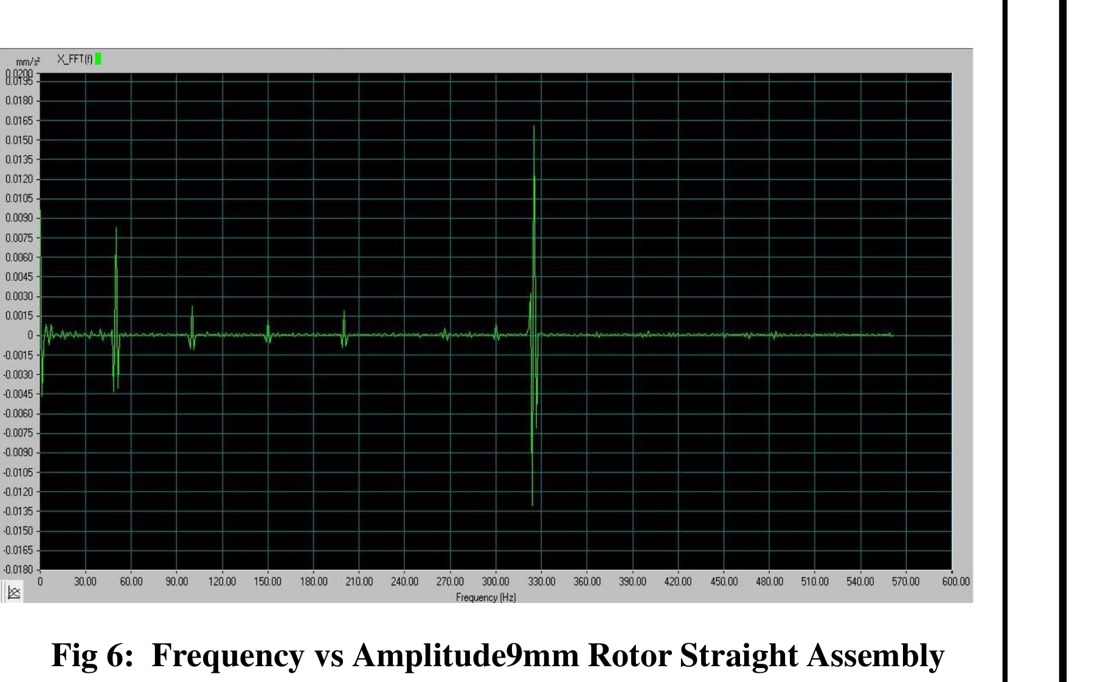
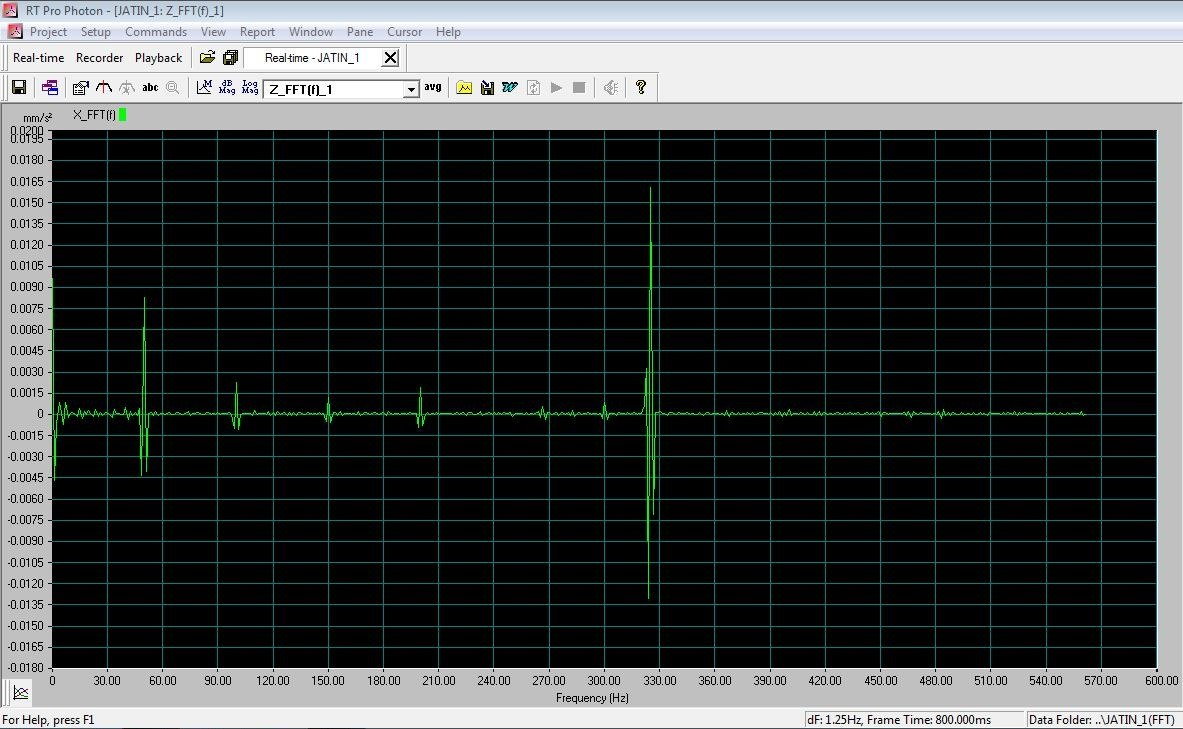
v5.27 gyro figures swapped to high-res labelled originals from Images.pptx/PPT media; setup figure full-width; CAD figure removed

diff --git a/gyro-motor.html b/gyro-motor.html
@@ -361,7 +361,7 @@ transition:opacity .6s ease,transform .6s ease}
 <section class="pbody">
   <div class="pvwrap"><video autoplay muted loop playsinline preload="none" width="854" height="482" poster="assets/pv_gyro.jpg" src="assets/pv_gyro.mp4"></video></div>
   <div class="mrow"><div><p class="mk">TYPE</p><p class="mv">Defence hardware · Rotordynamics</p></div><div><p class="mk">ROLE</p><p class="mv">BE capstone with TriQual Cryogenics, team of four</p></div><div><p class="mk">OPERATING POINT</p><p class="mv">28,000 rpm · 466.67 Hz</p></div></div>
-  <div class="figgrid"><figure class="pfig"><img src="assets/g_fig_setup.jpg" alt="Instrumented FFT test bench: power supply, alternator, signal conditioner, FFT analyzer, tachometer, and the gyro motor with accelerometer mounted." loading="lazy"><figcaption>Instrumented FFT test bench: power supply, alternator, signal conditioner, FFT analyzer, tachometer, and the gyro motor with accelerometer mounted.</figcaption></figure><figure class="pfig"><img src="assets/g_fig_assembled.jpg" alt="The fully assembled gyro motor with the accelerometer mounted for bench testing." loading="lazy"><figcaption>The fully assembled gyro motor with the accelerometer mounted for bench testing.</figcaption></figure><figure class="pfig"><img src="assets/g_fig_fft.jpg" alt="Measured frequency vs amplitude spectrum for the selected 9 mm straight rotor assembly." loading="lazy"><figcaption>Measured frequency vs amplitude spectrum for the selected 9 mm straight rotor assembly.</figcaption></figure><figure class="pfig wide"><img src="assets/g_fig_cad.jpg" alt="CAD design of the gyro rotor assembly with exploded views of the inclined and straight configurations." loading="lazy"><figcaption>CAD design of the gyro rotor assembly with exploded views of the inclined and straight configurations.</figcaption></figure></div>
+  <div class="figgrid"><figure class="pfig wide"><img src="assets/g_fig_setup.jpg" alt="Instrumented FFT test bench: power supply, alternator, signal conditioner, FFT analyzer, tachometer, and the gyro motor with accelerometer mounted." loading="lazy"><figcaption>Instrumented FFT test bench: power supply, alternator, signal conditioner, FFT analyzer, tachometer, and the gyro motor with accelerometer mounted.</figcaption></figure><figure class="pfig"><img src="assets/g_fig_assembled.jpg" alt="The fully assembled gyro motor with the accelerometer mounted for bench testing." loading="lazy"><figcaption>The fully assembled gyro motor with the accelerometer mounted for bench testing.</figcaption></figure><figure class="pfig"><img src="assets/g_fig_fft.jpg" alt="Measured frequency vs amplitude spectrum for the selected 9 mm straight rotor assembly." loading="lazy"><figcaption>Measured frequency vs amplitude spectrum for the selected 9 mm straight rotor assembly.</figcaption></figure></div>
   <section class="psec"><h2>Overview</h2><ul class="dashlist"><li>Gyro stabilized platforms keep sightlines steady on battle tanks and artillery, and the gyro motors inside them were imported. This project developed an indigenous gyro motor rotor tailored to Indian Army platform requirements, in partnership with TriQual Cryogenics.</li><li>Eight rotor assembly iterations were modeled and screened on critical speed, damped natural frequencies, and equivalent stress. The winner was manufactured and validated on an instrumented bench, and the work was presented at the CALIBRE 2k24 national project poster competition.</li></ul></section>
   <section class="psec"><h2>Design &amp; Build</h2><ul class="dashlist"><li><b>Design:</b> Eight rotor assemblies in CAD: 8 to 11 mm bars in straight and inclined configurations, EN24 rotors, EN8 lock nuts, and aluminium plates and bars.</li><li><b>Analysis:</b> ANSYS modal and rotordynamic screening of every iteration: critical speed, translational and torsional damped frequencies on the Campbell diagram, and equivalent stress.</li><li><b>Selection:</b> The 9 mm straight bar assembly won: simulated critical speed of 22,207 rpm against the 28,000 rpm operating speed, with translational and torsional modes at 201.91 Hz and 330.3 Hz, both clear of the 466.67 Hz operating frequency.</li><li><b>Build and test:</b> The selected rotor was manufactured and run on an instrumented bench: accelerometer on the motor, signal conditioner, FFT analyzer, tachometer, and alternator loading.</li></ul></section>
   <section class="psec"><h2>Challenges</h2><ul class="dashlist"><li>Keeping every resonance clear of a 466.67 Hz operating point across eight competing geometries.</li><li>Correlating simulation with the bench, where the measured critical speed came in at 19,462 rpm against the 22,207 rpm prediction.</li><li>Working inside an industry NDA: everything shown here comes from the public competition poster.</li></ul></section>
